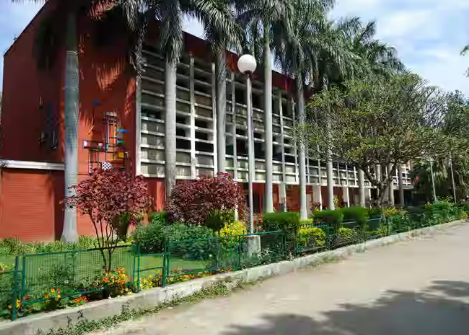
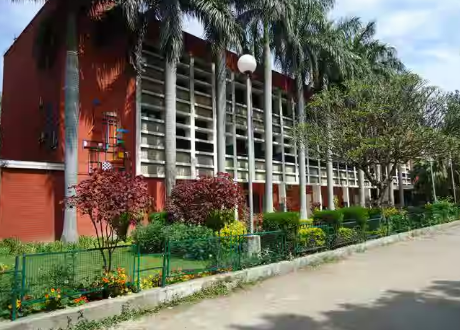
Responsive design

diff --git a/main.css b/main.css
@@ -1,113 +1,186 @@
-body{
-    text-align: center;
-    display: flex;
-    flex-direction: column;
-    align-items: center;
-    justify-content: center;
+* {
+  margin: 0;
+  padding: 0;
+  box-sizing: border-box;
 }
-p{
-    font-family: 'Open Sans', sans-serif;
+p {
+  font-family: "Open Sans", sans-serif;
 }
-.header{
-    background:linear-gradient(to bottom, rgb(16, 81, 125), 65%,rgba(92, 225, 230));
-    height: 500px;
-    width: 100%;
-    display: flex;
-    flex-direction: row;
-    justify-content: space-evenly;
-    align-items: center;
-    margin-bottom: 50px;
+body {
+  display: flex;
+  flex-direction: column;
+  align-items: center;
 }
-.profile-picture{
-    height: 400px;
-    border-radius: 10px;
+.header {
+  background: linear-gradient(
+    to bottom,
+    rgba(92, 225, 230),
+    65%,
+    rgb(16, 81, 125)
+  );
+  height: 500px;
+  width: 100%;
+  display: flex;
+  flex-direction: row;
+  justify-content: space-evenly;
+  align-items: center;
+  text-align: center;
+  margin-bottom: 50px;
 }
-.header h2 > span{
-    font-weight: bold;
-    text-decoration: underline;
+.profile-picture {
+  height: 400px;
+  border-radius: 5%;
 }
-.resume{
-    background: linear-gradient(to bottom,rgba(92, 225, 230), 65%, rgba(36, 132, 198,1)) ;
-    color:white;
-    border-radius: 4px;
-    width: 60%;
-    padding: 20px;
-    display: grid;
-    gap: 20px;
-    grid-template-columns: 1fr 1fr;
-    grid-template-rows: 1fr 1fr 1fr;
+.header h1,
+.header h2 {
+  font-weight: bold;
+  color: white;
 }
-.resume > div {
-    display: flex;
-    align-items: center;
+.header h2 span {
+  text-decoration: underline;
 }
-.resume img {
-    height: 200px;
-    border-radius: 5%;
+.education {
+  background: linear-gradient(
+    to bottom,
+    rgba(92, 225, 230),
+    65%,
+    rgba(36, 132, 198, 1)
+  );
+  display: flex;
+  flex-direction: column;
+  align-items: center;
+  border-radius: 1%;
+  width: 60%;
+  padding: 20px;
 }
-.left{
-    justify-content: right;
-    text-align: right;
+.education > div {
+  flex: 1;
 }
-.right{
-    justify-content: left;
-    text-align: left;
+.education-card {
+  display: flex;
+  align-items: center;
+  color: white;
+  width: 100%;
+  font-size: 1rem;
 }
-.achedmic-box{
-    height: 200px;
-    background-color: rgb(255, 255, 255, .1);
-    margin: 20px;
-    border-radius: 5px;
-    padding: 10px;
-    display: flex;
-    border-radius: 16px;
-    box-shadow: 0 10px 25px rgba(0,0,0,0.08);
-    transition: transform 0.3s ease;
+.bold {
+  font-weight: bold;
 }
-.skills-box{
-    display: flex;
-    flex-direction: column;
-    justify-content: center;
-    align-items: center;
-    margin-top: 20px;
+.education-image-box,
+.education-details {
+  flex: 1;
 }
-.skills-list{
-    list-style-type: none;
+.row {
+  flex-direction: row;
 }
-.skills-list li{
-    font-weight: bolder;
+.row-reverse {
+  flex-direction: row-reverse;
+  text-align: right;
 }
-.language-logo{
-    height: 50px;
-    width: 50px;
-    margin: 0px 10px 0px 10px;
+.education-image {
+  width: 100%;
+  object-fit: cover;
+  display: block;
+  border-radius: 5%;
 }
-.footer{
-    height: 100px;    
-    width: 100%;
-    margin-top: 10px;
-    display: flex;
-    flex-direction: column;
-    justify-content: center;
-    align-items: center;
-    color:rgb(255, 255, 255);
-    background: linear-gradient(to bottom right,rgba(92, 225, 230), rgba(36, 132, 198,1));
+.skills-box {
+  display: flex;
+  flex-direction: column;
+  justify-content: center;
+  align-items: center;
+  margin-top: 20px;
+  text-align: center;
 }
-.link-box{
-    display: flex;
-    flex-direction: row;
-    justify-content: center;
-    align-items: center;
-    padding-bottom: 10px;
+.skills-list {
+  list-style-type: none;
 }
-.footer-links-logo{
-    height: 25px;
-    padding: 0px 3px;
-    align-items: center;
+.skills-list li {
+  font-weight: bolder;
+}
+.language-logo {
+  height: 50px;
+  width: 50px;
+  margin: 0px 10px 0px 10px;
+}
+.footer {
+  height: 100px;
+  width: 100%;
+  margin-top: 10px;
+  display: flex;
+  flex-direction: column;
+  justify-content: center;
+  align-items: center;
+  color: rgb(255, 255, 255);
+  background: linear-gradient(
+    to bottom right,
+    rgba(92, 225, 230),
+    rgba(36, 132, 198, 1)
+  );
+}
+.link-box {
+  display: flex;
+  flex-direction: row;
+  justify-content: center;
+  align-items: center;
+  padding-bottom: 10px;
+}
+.footer-links-logo {
+  height: 25px;
+  padding: 0px 3px;
+  align-items: center;
 }
 .footer-links {
-    text-decoration: none;
-    padding: 0px 10px;
-    color:rgb(255, 255, 255);
-    font-weight: 600;
+  text-decoration: none;
+  padding: 0px 10px;
+  color: rgb(255, 255, 255);
+  font-weight: 600;
+}
+@media (max-width: 767px) {
+  .header {
+    flex-direction: column;
+    color: white;
+    width: 100%;
+    height: 350px;
+  }
+  .header h1 {
+    font-size: 2rem;
+  }
+  .profile-picture {
+    aspect-ratio: 1;
+    border-radius: 50%;
+    height: 150px;
+    object-fit: cover;
+    border: 2px solid antiquewhite;
+  }
+  .education {
+    width: 80%;
+    align-items: center;
+    gap: 20px;
+  }
+  .education-card {
+    flex-direction: column;
+    width: 90%;
+    gap: 5px;
+    align-items: center;
+    text-align: center;
+  }
+}
+@media (min-width: 768px) and (max-width: 1024px) {
+  .header {
+    text-align: left;
+  }
+  .education {
+    gap: 20px;
+  }
+  .education-card {
+    gap: 20px;
+  }
+}
+@media (min-width: 1025px) {
+  .education {
+    gap: 30px;
+  }
+  .education-card {
+    gap: 30px;
+  }
 }

diff --git a/index.html b/index.html
@@ -1,5 +1,6 @@
 <!DOCTYPE html>
 <html lang="en">
+
 <head>
     <meta charset="UTF-8">
     <meta name="viewport" content="width=device-width, initial-scale=1.0">
@@ -12,37 +13,48 @@
     <link rel="stylesheet" href="./main.css">
     <title>Vivek Kumar's Portfolio</title>
 </head>
+
 <body>
     <div class="header">
         <div>
-            <h1 class="name">Hello, I am Vivek Kumar</h1>
-            <h2 style="color: white;">I am a <span>Web-Developer</span></h2>
+            <h1>Hello, I am Vivek Kumar</h1>
+            <h2>I am a <span class="underline">Web-Developer</span></h2>
         </div>
         <div>
-            <img class="profile-picture" src="./Assets/Images/profile-photo.png" alt="Picture of Vivek Kumar"/>
+            <img class="profile-picture" src="./Assets/Images/profile-photo.png" alt="Picture of Vivek Kumar" />
         </div>
     </div>
-    <div class="resume">
-        <div class="left">
-            Senion Secondary High school <br>
-            Sector 8B Chandigarh
+    <div class="education">
+        <div class="education-card">
+            <div class="education-image-box">
+                <img class="education-image" src="./Assets/Images/school.png" />
+            </div>
+            <div class="education-details">
+                <span class="bold">Matricalculation</span>
+                <br> Senion Secondary High school
+                <br> Sector 8B Chandigarh
+            </div>
         </div>
-        <div class="right">
-            <img src="./Assets/Images/school.png" />
+        <div class="education-card row-reverse">
+            <div class="education-image-box">
+                <img class="education-image" src="./Assets/Images/college-diploma.png" />
+            </div>
+            <div class="education-details">
+                <span class="bold">Electrical Engineering</span>
+                <br> College of engineering and Technology
+                <br> Sector 26 Chandigarh
+                <br>
+            </div>
         </div>
-        <div class="left">
-            <img src="./Assets/Images/college-diploma.png" />
-        </div>
-        <div class="right">
-            College of engineering and Technology<br>
-            Sector 26 Chandigarh <br>
-        </div>
-        <div class="left">
-            Indo Global College of engineering<br>
-            Abhipur, Mohali
-        </div>
-        <div class="right">
-            <img src="./Assets/Images/college-degree.png" />
+        <div class="education-card row">
+            <div class="education-image-box">
+                <img class="education-image" src="./Assets/Images/college-degree.png" />
+            </div>
+            <div class="education-details">
+                <span class="bold">Computer Science Engineering</span>
+                <br> Indo Global College of engineering
+                <br> Abhipur, Mohali
+            </div>
         </div>
     </div>
     <div class="skills-box">
@@ -63,4 +75,5 @@
     </div>
     <script src="https://cdn.jsdelivr.net/npm/bootstrap@5.3.2/dist/js/bootstrap.min.js" integrity="sha384-BBtl+eGJRgqQAUMxJ7pMwbEyER4l1g+O15P+16Ep7Q9Q+zqX6gSbd85u4mG4QzX+" crossorigin="anonymous"></script>
 </body>
+
 </html>
